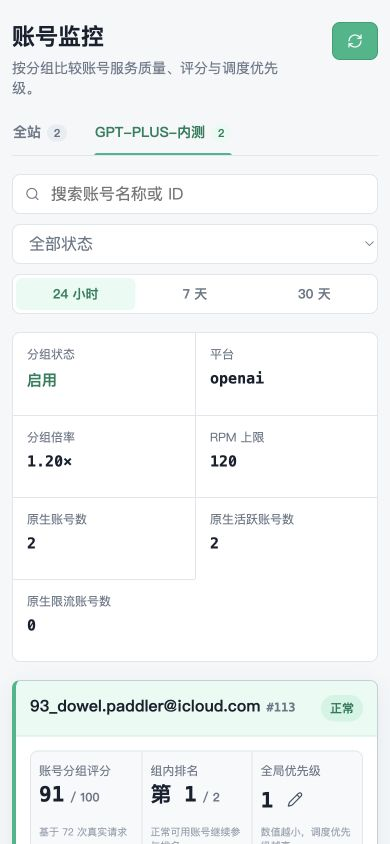
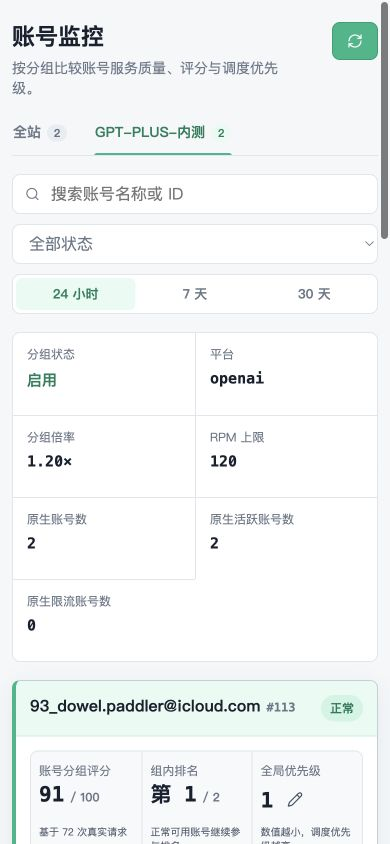
docs: refresh account monitor V3 QA evidence

diff --git a/docs/prototypes/account-monitor-card-v2/design-qa.md b/docs/prototypes/account-monitor-card-v2/design-qa.md
@@ -46,4 +46,4 @@ Final result: passed
 - Operational helper text now meets the 4.5:1 WCAG AA contrast threshold on white plus every metric pastel surface.
 - Rejected priority and procurement-cost drafts remain in their inputs. The edited input is refocused after validation, and its stable error element is associated through `aria-describedby` and announced with `role="alert"`.
 - The selected time range exposes `aria-pressed="true"` on exactly one control. Switching to 7 days updates the score, request count, and failure count from that window.
-- Final-fix scope did not regenerate screenshots. The coordinator will capture replacement desktop and mobile images after independent browser verification.
+- Fresh independent browser verification on 2026-08-04 recaptured `prototype-v3-desktop.png` at 1440 x 1000 and `prototype-v3-mobile-top.png` at 390 x 844. Both viewports had matching document scroll/client widths (1440 / 1440 and 390 / 390), desktop retained exactly two ranked cards in score order, mobile used one card column, and the browser console reported 0 errors and 0 warnings.
